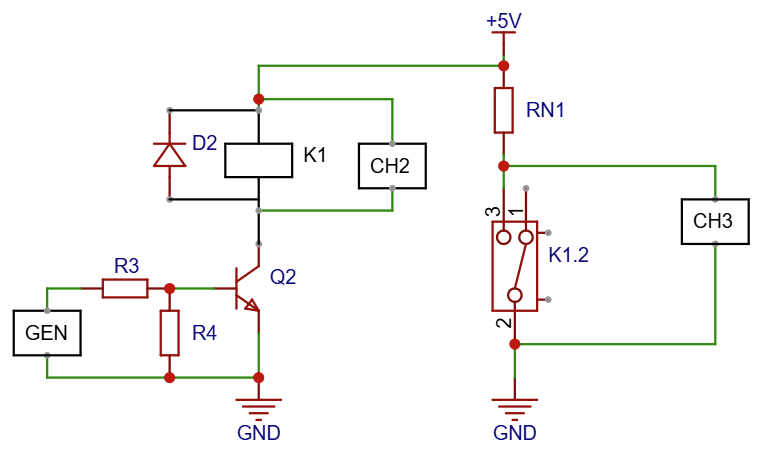
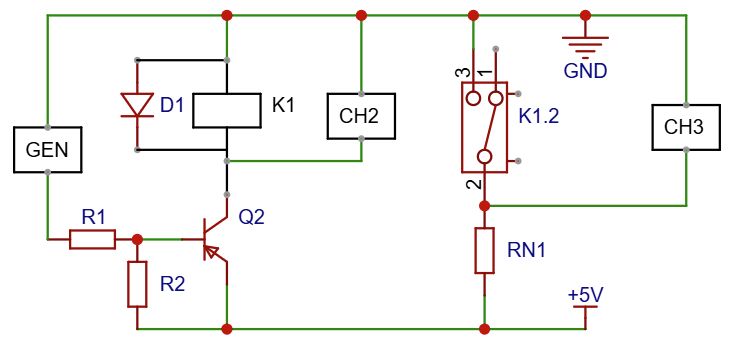
261115

Changed region(s): [[0.0, 0.029, 0.9945, 0.9855]]

diff --git a/docs/source/electronics/loademrelay/loademrelay.rst b/docs/source/electronics/loademrelay/loademrelay.rst
@@ -104,7 +104,6 @@ p-n-p типа и электромеханическим реле Tongling 5VDC 
 ~~~~~~~~~~~~~~~~~
 
 Схема подключения осциллографов и генератора для проведения измерений приведена на рисунке ниже.
-Здесь приведена схема с транзисторным ключом на биполярном транзисторе n-p-n типа.
 В эксперименте используется транзистор p-n-p типа.
 
 .. figure:: images/emrelay_02.png
@@ -165,13 +164,13 @@ p-n-p типа и электромеханическим реле Tongling 5VDC 
 При подаче управляющего импульса на вход IN Релейного модуля (на базу транзисторного ключа Q1),
 переход “Коллектор-Эмиттер” закроется и сопротивление резко возрастет.
 
-Поскольку напряжение на обмотке реле не может мгновенно исчезнуть,
+Поскольку ток на обмотке реле не может мгновенно исчезнуть,
 на обмотке возникнет напряжение самоиндукции, обратное напряжению источника питания.
-Это напряжение разрядится через диод D2.
+Ток пройдет через защитный диод D1.
 Осциллограф CH2 покажет всплеск противоположного напряжения U(K1),
 а затем спад падения напряжения до нуля.
 
-Когда индуктивность катушки станет недостаточной, чтобы удерживать якорь, ключ К1.1 разомкнется.
+Когда ток катушки и создаваемое им магнитное усилие станут недостаточными для удержания якоря, ключ К1.1 разомкнется.
 Ток в цепи нагрузки пропадет. На сопротивлении RN1 пропадет падение напряжения.
 Осциллограф CH3 покажет скачкообразное увеличение напряжения U(K1.2) до напряжения источника питания.
 
@@ -205,12 +204,9 @@ p-n-p типа и электромеханическим реле Tongling 5VDC 
 - Частота: 100 Гц
 - Амплитуда: 0...5В
 
-На частоте 100 Гц катушка индуктивности не успевает разрядиться за время управляющего импульса
-и контакты остаются замкнуты на протяжении всего импульса и размыкаются только в самом конце импульса.
-И затем замыкаются на половине интервала отсутствия управляющего сигнала.
-
-Т.е. происходит, фактически, обратное тому, что необходимо.
-Во время управляющего импульса контакты разомкнуты и замыкаются только при пропадании управляющего импульса.
+На частоте 100 Гц задержки срабатывания и отпускания становятся сопоставимыми
+с длительностью управляющих интервалов. Состояние контактов существенно запаздывает
+относительно команды управления; форма и длительность коммутации нагрузки искажаются.
 
 .. figure:: images/emrelay_100.png
    :align: center
@@ -239,9 +235,10 @@ p-n-p типа и электромеханическим реле Tongling 5VDC 
 Например, в рассмотренном примере, релейный модуль включается
 при подаче низкого уровня (GND), а не высокого.
 
-Из основных преимуществ электромагнитных реле можно отметить практически нулевые потери
-в цепи нагрузки на контактах реле, т.к. контакты представляют собой замкнутый проводник.
-При помощи электромагнитных реле можно коммутировать любое напряжение, как постоянное, так и переменное.
+Из основных преимуществ электромагнитных реле можно отметить,
+что потери на замкнутых контактах обычно невелики,
+и определяются сопротивлением контактов.
+При помощи электромагнитных реле можно коммутировать как постоянное, так и переменное напряжение.
 Коммутируемая цепь может быть полностью независима от цепи управления.
 
 Из основных минусов можно отметить низкую скорость срабатывания.
